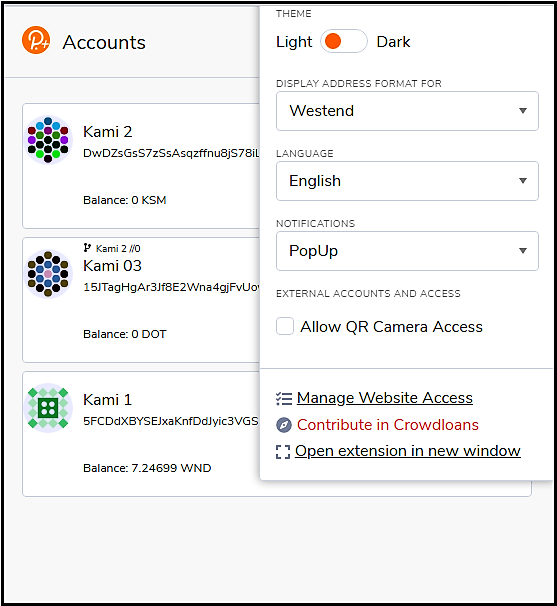
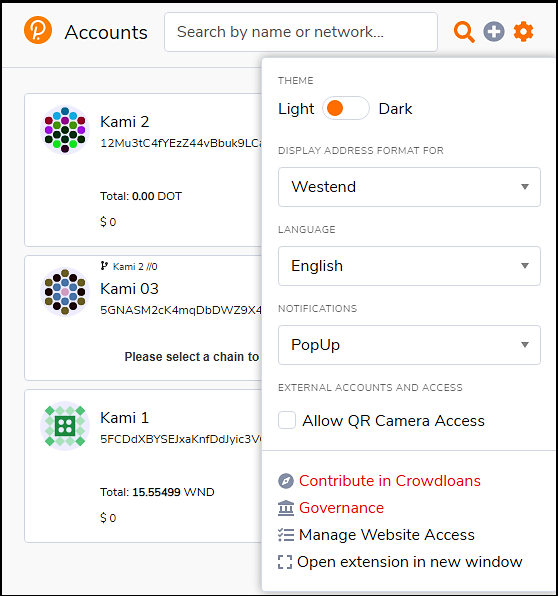
update readme

diff --git a/packages/extension-ui/src/partials/MenuSettings.tsx b/packages/extension-ui/src/partials/MenuSettings.tsx
@@ -182,7 +182,7 @@ function MenuSettings ({ className, reference }: Props): React.ReactElement<Prop
           text={t<string>('Governance')}
         />
       </MenuItem>
-      <MenuDivider />
+      {/* <MenuDivider /> */}
       <MenuItem className='setting'>
         <ActionText
           className='manageWebsiteAccess'
@@ -210,6 +210,23 @@ export default React.memo(styled(MenuSettings)(({ theme }: Props) => `
   right: 24px;
   user-select: none;
 
+  .crowdloans, .governance{ //added for plus
+    span {
+      color: red; // ${theme.textColor};
+      font-size: ${theme.fontSize};
+      line-height: ${theme.lineHeight};
+      text-decoration: none;
+      vertical-align: middle;
+    }
+
+    ${Svg} {
+      background: ${theme.textColor};
+      height: 20px;
+      top: 4px;
+      width: 20px;
+    }
+  }
+  
   .openWindow, .manageWebsiteAccess{
     span {
       color: ${theme.textColor};

diff --git a/packages/extension-plus/src/components/Plus.tsx b/packages/extension-plus/src/components/Plus.tsx
@@ -241,7 +241,7 @@ function Plus({ address, chain, formattedAddress, givenType, name,
     <Container disableGutters sx={{ position: 'relative', top: '-10px' }}>
       <Grid container justifyContent='flex-end'>
         <Grid container id='QRcodePage' item justifyContent='flex-end' xs={2}>
-          <Grid item xs={2} >
+          <Grid item xs={2} sx={{paddingLeft:'2px'}}>
             <Link color='inherit' href='#' underline='none'>
               <FontAwesomeIcon
                 icon={faQrcode}

diff --git a/README.md b/README.md
@@ -63,6 +63,9 @@ Transactions' histroy can be seen from the account page, which shows transaction
 
 ![transaction history page screenshot](packages/extension-plus/docs/screenshots/transactionHistory00.PNG)
 
+![transaction detail page screenshot](packages/extension-plus/docs/screenshots/transactionHistory01.PNG)
+
+
 Entering the crypto address is error prone, so it is useful to use the QR code for scanning by a mobile wallet.
 
 ![Address QR code page screenshot](packages/extension-plus/docs/screenshots/addressQrCode00.PNG)
